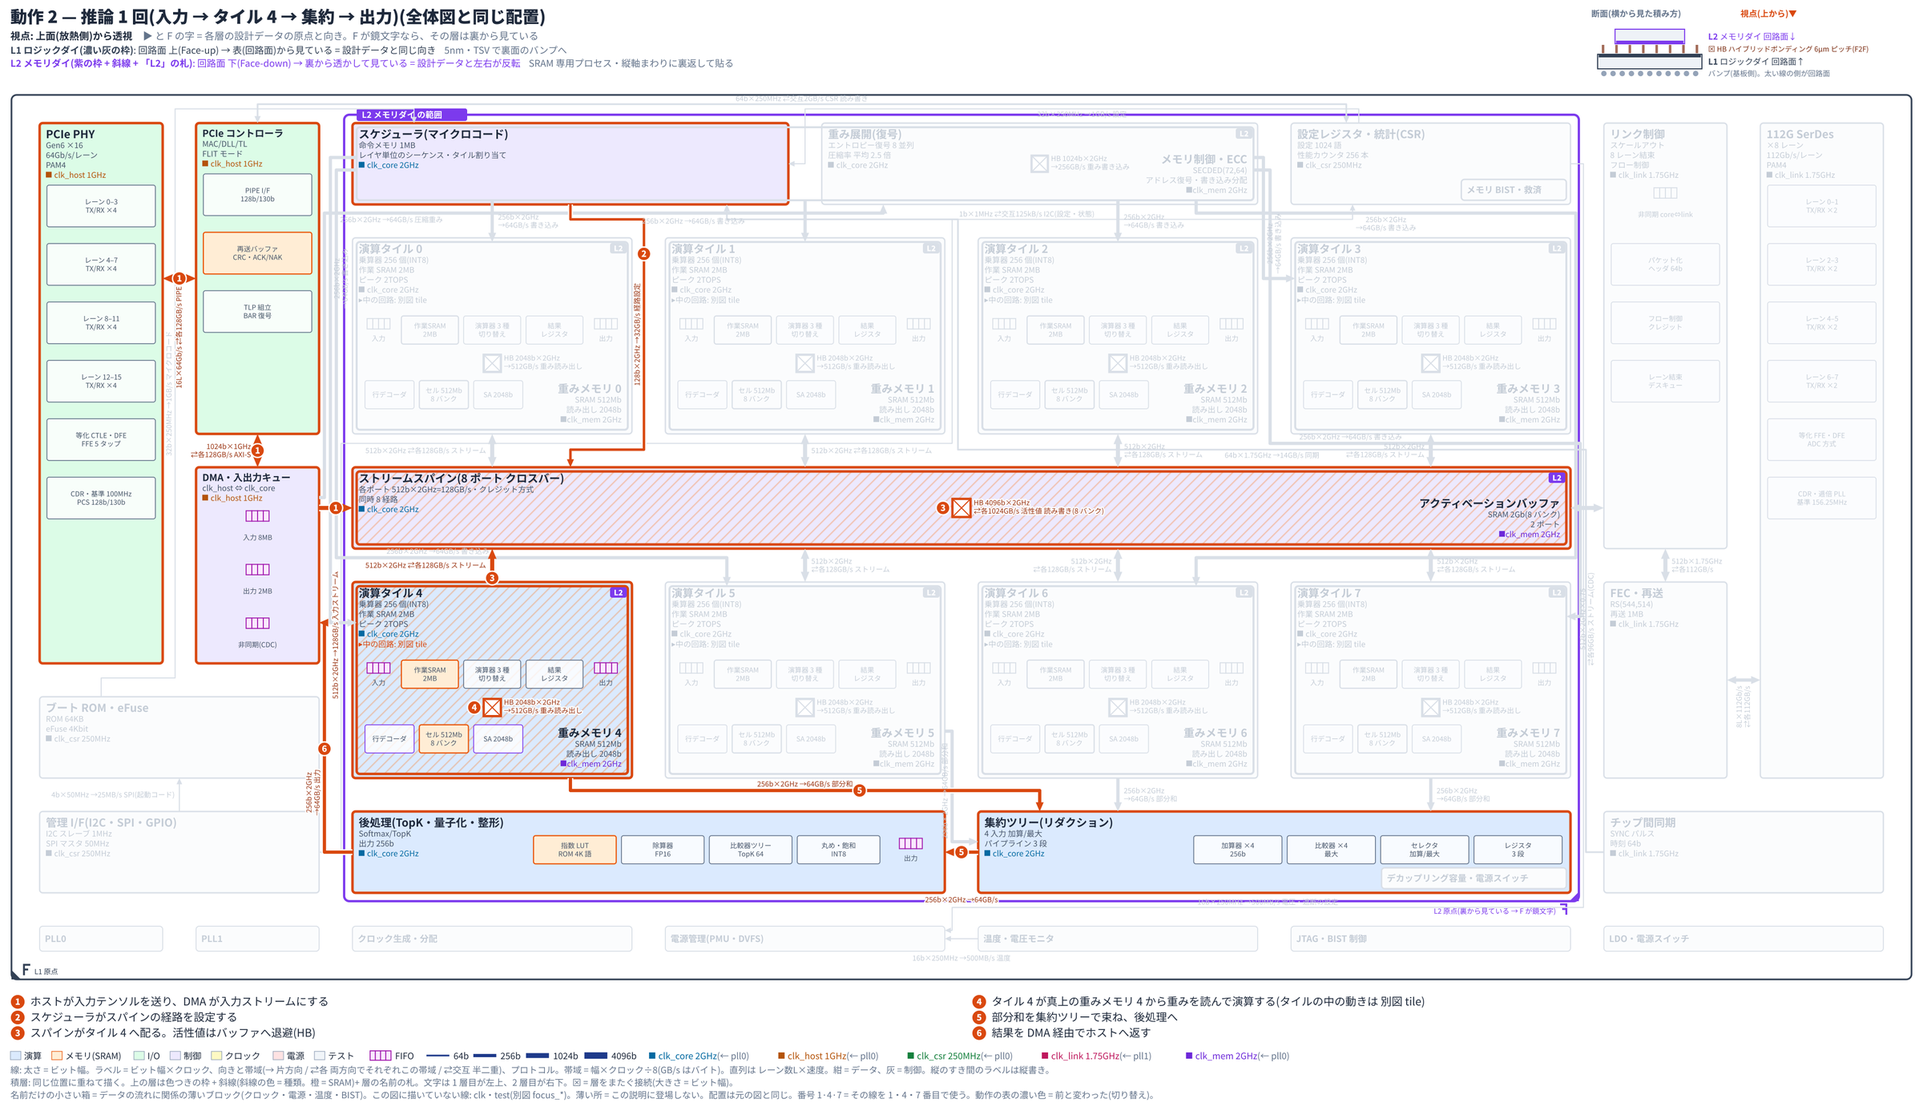
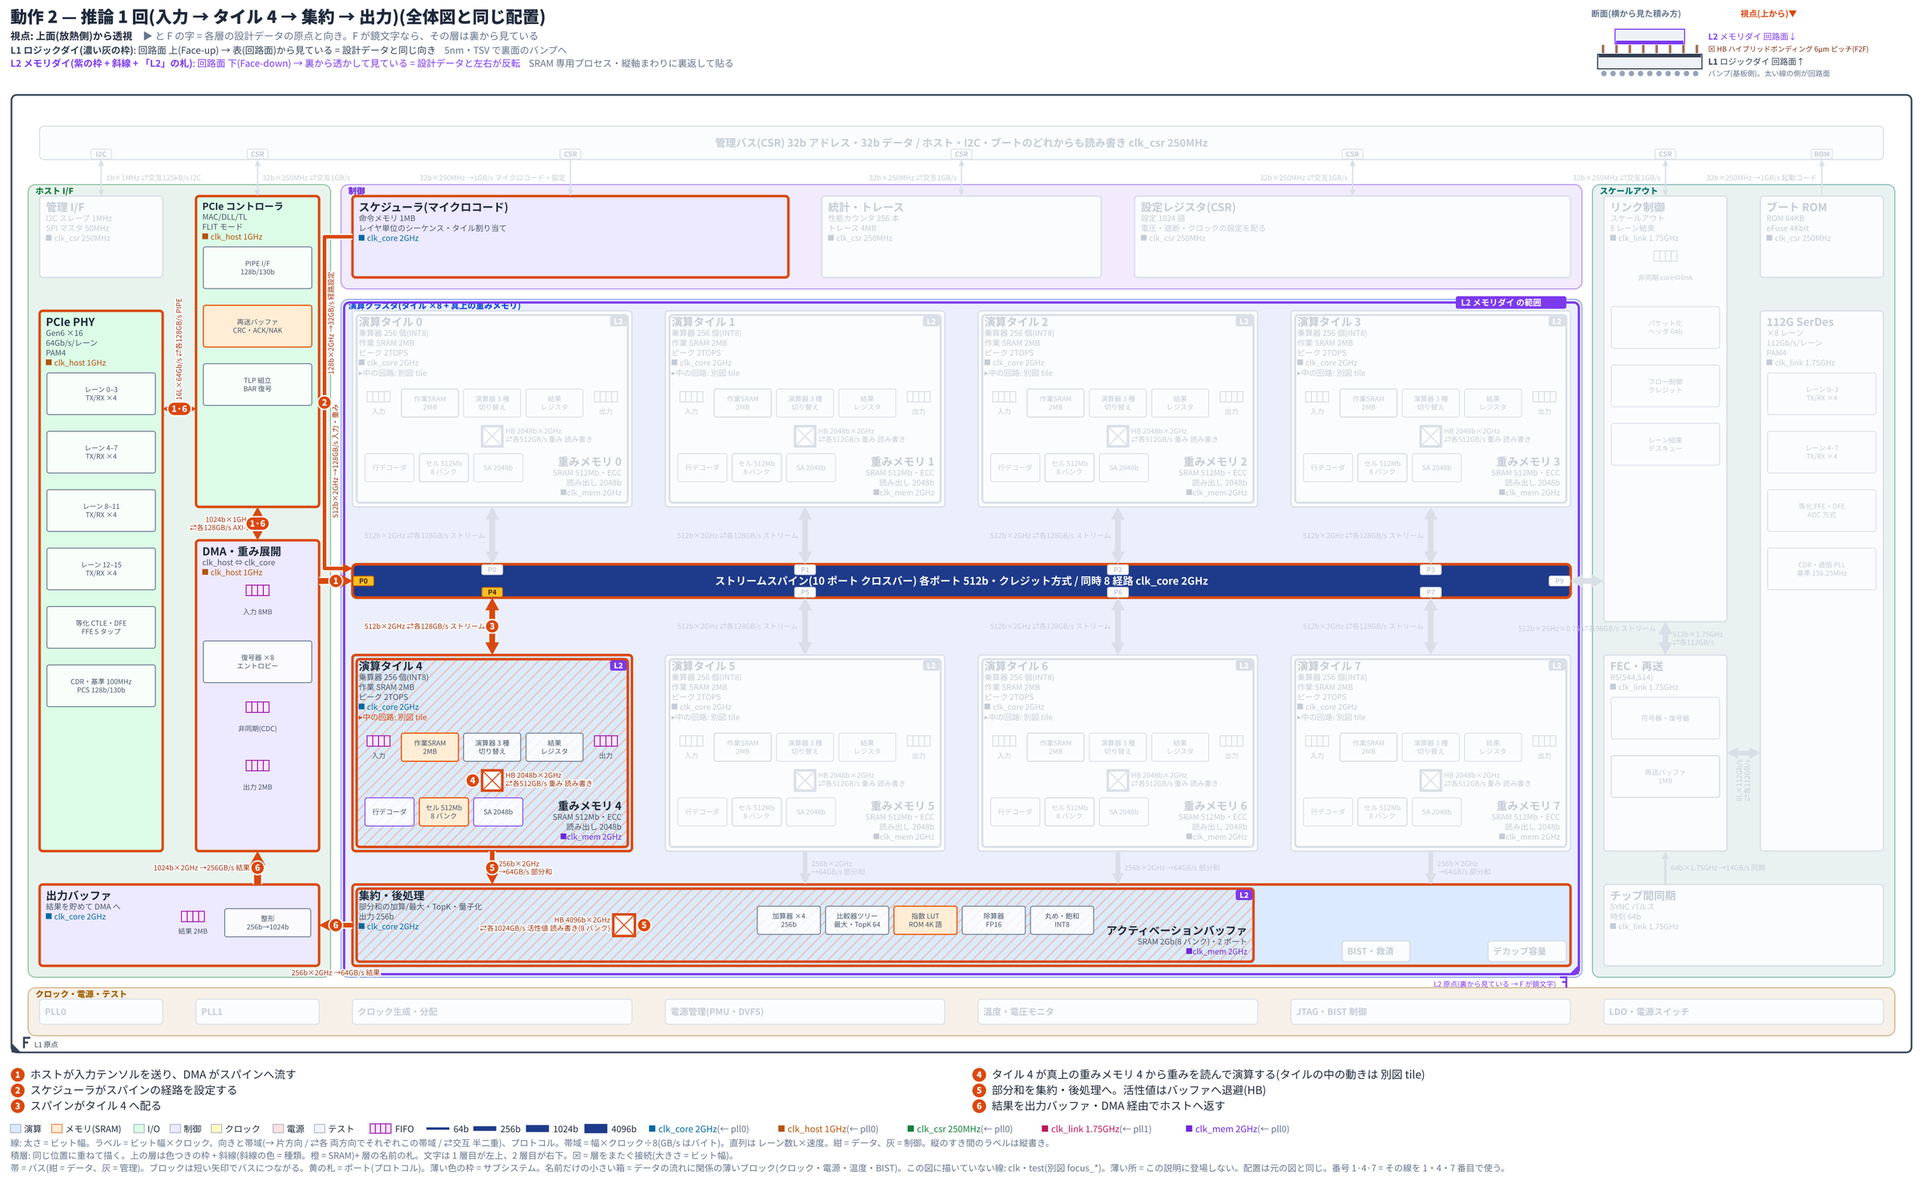
aichip: 全体図を論文のブロック図にならう形に(バス = 帯、短い太い矢印、ポートの札、サブシステムの枠。R62)。例を管理バス + スパインの 2 本の帯に組み直す
Claude-Session: https://claude.ai/code/session_01XXd7JvWVmuTTSSCjMKzXau

Changed region(s): [[0.0, 0.0, 1.0, 0.9892], [0.9062, 0.2782, 0.9375, 0.3091], [0.75, 0.9583, 0.7812, 0.9892]]

diff --git a/scripts/aichip.py b/scripts/aichip.py
@@ -31,6 +31,8 @@ from chipdiag import esc, wlen, INK, to_png, hz, load, FONT, text_box, fifo_cell
 
 GRAY = "#64748b"
 CW, CH, CHS, G, PAD = 118, 78, 24, 32, 6     # マスの幅・高さ、小さい箱だけの行の高さ、すき間、外の余白
+CHB, BUSH = 38, 32                           # バスの帯だけの行の高さ、帯の太さ
+TABC = "#fbbf24"                             # ポートの札
 BEND = 46
 KFILL = {"compute": "#dbeafe", "mem": "#ffedd5", "io": "#dcfce7", "clk": "#fef9c3", "ctrl": "#ede9fe", "pwr": "#fee2e2",
          "reg": "#ccfbf1", "test": "#f1f5f9", "misc": "#f1f5f9"}
@@ -238,7 +240,7 @@ class Arch:
         if self.schem:                                    # 回路の図: 細めの線。太さの差は控えめに
             return min(3.6, max(0.9, 0.8 + 0.35 * math.log2(max(l.get("width") or 1, 8) / 8)))
         w = l.get("width") or (l.get("lanes", 0) * 32) or 32
-        return min(6.5, max(1.0, 0.9 + 0.75 * math.log2(max(w, 32) / 32)))
+        return min(10, max(1.2, 1.2 + 1.1 * math.log2(max(w, 32) / 32)))
 
     def check(self):
         L, C, R = self.lint, self.C, self.R
@@ -263,7 +265,8 @@ class Arch:
         self.own = own
         for d in self.dies:
             dc, dr, dw, dh = d["at"]
-            emp = [(x, y) for y in range(dr, dr + dh) for x in range(dc, dc + dw) if (x, y) not in own[d["id"]]]
+            free = {(x, y) for c, r, w, h in d.get("free", []) for x in range(c, c + w) for y in range(r, r + h)}
+            emp = [(x, y) for y in range(dr, dr + dh) for x in range(dc, dc + dw) if (x, y) not in own[d["id"]] and (x, y) not in free]
             if emp and not self.schem:
                 L.append(f"[空き] 層 {d['id']}: {dw * dh} マス中 {len(emp)} マスが空いている "
                          f"({', '.join(f'[{x},{y}]' for x, y in emp[:6])}{' …' if len(emp) > 6 else ''})。詰めるか、何があるかを書く")
@@ -307,6 +310,16 @@ class Arch:
             for x in cr.get("blocks", []):
                 if x not in self.blocks:
                     L.append(f"[切り出し] {cr['id']}: ブロック {x} がない")
+        self.groups = []                                  # サブシステムの枠: (名前, 色, [ブロック])
+        for g in self.s.get("groups", []):
+            ms = [bid for bid in self.blocks for pat in g.get("blocks", []) if fnmatch.fnmatchcase(bid, pat)]
+            if not ms:
+                L.append(f"[配置] グループ {g.get('name')}: 当てはまるブロックがない")
+            else:
+                self.groups.append((g.get("name", ""), g.get("color", "#64748b"), ms))
+
+    def isbus(self, b):
+        return b.get("shape") == "bus" and not self.schem
 
     def state(self, d, fx=False, fy=False):
         """層 d が、モデルの座標(上面から見た向き)を (fx, fy) だけ反転した図でどう見えるか → (左右反転, 上下反転)"""
@@ -326,14 +339,15 @@ class Layout:
         self.A, self.fx, self.fy = A, fx, fy
         C, R = A.C, A.R
         self.cells = {b["id"]: self.flip(b["at"]) for b in A.blocks.values()}
-        rowsmall, has = [True] * R, [False] * R            # 小さい箱だけの行は低くする
+        rowsmall, has, rowbus = [True] * R, [False] * R, [False] * R   # 小さい箱だけ・バスの帯だけの行は低くする
         for b in A.blocks.values():
             c, r, w, h = self.cells[b["id"]]
             for y in range(r, r + h):
                 has[y] = True
-                if not A.small(b) or h > 1:
+                if not (A.small(b) or (A.isbus(b) and w >= h)) or h > 1:
                     rowsmall[y] = False
-        self.rh = [CHS if (rowsmall[j] and has[j]) else CH for j in range(R)]
+                rowbus[y] = rowbus[y] or A.isbus(b)
+        self.rh = [(CHB if rowbus[j] else CHS) if (rowsmall[j] and has[j]) else CH for j in range(R)]
         self.cw = [CW] * C
         if A.schem:                                       # 回路の図: 列の幅・行の高さは、そこに置く記号と文字で決める
             self.cw, self.rh = [40] * C, [40] * R
@@ -371,7 +385,13 @@ class Layout:
         self.ext[None] = [0, 0, C, R]
         self.texts, self.boxes, self.over = [], [], []
         self.route, self.via, self.sq, self.inner, self.lines, self.tabs, self.icons = {}, {}, [], [], [], [], []
-        self.pinlab, self.dots = [], []
+        self.pinlab, self.dots, self.grect = [], [], []
+        for nm, col, ms in A.groups:                      # サブシステムの枠(題つき)
+            rs = [self.rect[m] for m in ms]
+            x0, y0 = min(r[0] for r in rs) - 11, min(r[1] for r in rs) - 11
+            x1, y1 = max(r[0] + r[2] for r in rs) + 11, max(r[1] + r[3] for r in rs) + 11
+            self.grect.append((nm, col, x0, y0, x1, y1))
+            self.boxes.append(((x0 + 5, y0 + 1, x0 + 9 + tw(nm, 8, True), y0 + 10.5), ("g", nm), "□", True))
         if A.schem:
             self.place_symbols()
         else:
@@ -558,7 +578,7 @@ class Layout:
             right = anc[1] == "r"
             if A.small(b):                                # 名前だけの小さい箱
                 nm, fs = b["name"], 8.5
-                if h <= 30:                               # 低い行: マスいっぱい
+                if h <= 36:                               # 低い行: マスいっぱい
                     dx, dy, dw, dh = x + ins, y, w - 2 * ins, h
                 else:                                     # ふつうの行: 角に小さく置く
                     dw, dh = min(w - 2 * ins, tw(nm, fs, True) + 14), 20
@@ -567,6 +587,13 @@ class Layout:
                 nm = wrap(nm, max(4, int((dw - 10) / (fs * 0.6))))[0]
                 self.drect[b["id"]] = (dx, dy, dw, dh)
                 self.text(dx + 5, dy + dh / 2 + fs * .36, nm, fs, "start", role="name", owner=("b", b["id"]), bold=True, tight=b.get("tight", False))
+                continue
+            if A.isbus(b):                                # バス = 帯。名前は帯の中に白い字で 1 行
+                hz_ = w >= h
+                self.drect[b["id"]] = (x, y + h / 2 - BUSH / 2, w, BUSH) if hz_ else (x + w / 2 - BUSH / 2, y, BUSH, h)
+                ck = b.get("clock")
+                t = "   ".join([b["name"]] + [" / ".join(b.get("info", []))] * bool(b.get("info")) + ([f"{ck} {A.clk[ck].get('freq', '')}"] if ck in A.clk else []))
+                self.text(x + w / 2 + (0 if hz_ else 3.6), y + h / 2 + (3.6 if hz_ else 0), t, 10, "middle", rot=not hz_, role="bus", owner=("b", b["id"]), bold=True)
                 continue
             self.drect[b["id"]] = (x + ins, y + ins, w - 2 * ins, h - 2 * ins)
             shape = b.get("shape")
@@ -1056,7 +1083,7 @@ class Layout:
         """中が空いている 1 層目のブロック(3 マス以上で、文字と中身の箱が面積の 7% 未満)"""
         out = []
         for b in self.A.blocks.values():
-            if self.A.schem or self.A.die[b["die"]]["idx"] != 0 or b["at"][2] * b["at"][3] < 3 or self.A.small(b) or b.get("shape") == "mux":
+            if self.A.schem or self.A.die[b["die"]]["idx"] != 0 or b["at"][2] * b["at"][3] < 3 or self.A.small(b) or b.get("shape") in ("mux", "bus"):
                 continue
             x, y, w, h = self.rect[b["id"]]
             used = sum((bx[2] - bx[0]) * (bx[3] - bx[1]) for bx, ow, t, _ in self.boxes
@@ -1137,6 +1164,10 @@ def body_svg(A, L, mode):
     diml = lambda lid: actl is not None and lid not in actl
     hidden_die = lambda d: die_only is not None and d != die_only
     b_ = []
+    for nm, col, x0, y0, x1, y1 in L.grect:               # サブシステムの枠: 薄い色の地 + 題
+        b_.append(f'<rect x="{f(x0)}" y="{f(y0)}" width="{f(x1 - x0)}" height="{f(y1 - y0)}" rx="7" fill="{col}" fill-opacity=".09" '
+                  f'stroke="{col}" stroke-opacity=".45" stroke-width="1"/>'
+                  f'<text x="{f(x0 + 7)}" y="{f(y0 + 9)}" font-size="8" font-weight="800" fill="{col}">{esc(nm)}</text>')
     # 層の範囲・原点の印
     for d in A.dies:
         c, r, w, h = L.ext[d["id"]]
@@ -1156,8 +1187,9 @@ def body_svg(A, L, mode):
             continue
         if d["idx"]:                                      # 上の層の範囲: 外形の線の上に札
             t = f'{d["id"]} {d["name"]} の範囲'
-            b_.append(f'<rect x="{f(x - e + 12)}" y="{f(y - e - 6)}" width="{f(tw(t, 8, True) + 10)}" height="12" rx="2" fill="{col}"/>'
-                      f'<text x="{f(x - e + 17)}" y="{f(y - e + 3)}" font-size="8" font-weight="700" fill="#fff">{esc(t)}</text>')
+            tx_ = x + pw + e - 22 - tw(t, 8, True)        # 外形の右上(左上はサブシステムの題)
+            b_.append(f'<rect x="{f(tx_)}" y="{f(y - e - 6)}" width="{f(tw(t, 8, True) + 10)}" height="12" rx="2" fill="{col}"/>'
+                      f'<text x="{f(tx_ + 5)}" y="{f(y - e + 3)}" font-size="8" font-weight="700" fill="#fff">{esc(t)}</text>')
         mx, my = A.state(d, L.fx, L.fy)
         ox, oy = (x + pw + e if mx else x - e), (y - e if my else y + ph + e)
         sx, sy = (-1 if mx else 1), (-1 if my else 1)
@@ -1182,6 +1214,11 @@ def body_svg(A, L, mode):
             continue
         small = A.small(b)
         shape = None if small else b.get("shape")
+        if shape == "bus":                                # バスの帯(色 = 線の種類の色)
+            bc = LCOL.get(b.get("bus", "data"), LCOL["data"])
+            b_.append(f'<rect x="{f(x)}" y="{f(y)}" width="{f(w)}" height="{f(h)}" rx="4" fill="{DIMF if dm else bc}" '
+                      f'stroke="{DIMS if dm else ACC if act else bc}" stroke-width="{2.6 if act else 1}"/>')
+            continue
         fill = DIMF if dm else FIFO_FILL if shape == "fifo" else KFILL.get(b["kind"], KFILL["misc"])
         if k and not die_only and not small and not A.schem:      # 重ねて描く時: 下の層の色を消さないよう、斜線だけ
             fill = "none" if dm else f'url(#ht_{b["kind"] if b["kind"] in KHATCH else "misc"})'
@@ -1273,9 +1310,19 @@ def body_svg(A, L, mode):
             dx, dy = ex - qx, ey - qy
             n = max(math.hypot(dx, dy), 1e-6)
             ux, uy = dx / n, dy / n
-            hw = max(2.2, sw * .5 + 1.8) if A.schem else max(2.6, sw * .5 + 2.2)
+            hw = max(2.2, sw * .5 + 1.8) if A.schem else max(2.8, sw * .85 + 1.8)
             o.append(f'<path d="M{f(ex)},{f(ey)} L{f(ex - ux * a - uy * hw)},{f(ey - uy * a + ux * hw)} '
                      f'L{f(ex - ux * a + uy * hw)},{f(ey - uy * a - ux * hw)} z" fill="{col}"/>')
+        if l.get("tab"):                                  # ポートの札(プロトコル・ポート名)。バスの帯の縁の内側に置く(帯の中央は名前の行)
+            ends = [(pts[0], pts[1], l["from"]), (pts[-1], pts[-2], l["to"])]
+            for (ex, ey), (qx, qy), _ in [e for e in ends if A.isbus(A.blocks[e[2]])]:
+                n = max(math.hypot(ex - qx, ey - qy), 1e-6)
+                ux, uy = (ex - qx) / n, (ey - qy) / n     # 帯の中へ向かう向き
+                tw_ = max(20, tw(l["tab"], 6.6, True) + 7)
+                cx_, cy_ = ex + ux * (tw_ / 2 + .5 if abs(ux) > .5 else 0), ey + uy * (5.2 if abs(uy) > .5 else 0)
+                o.append(f'<rect x="{f(cx_ - tw_ / 2)}" y="{f(cy_ - 4.7)}" width="{f(tw_)}" height="9.4" rx="1.5" fill="{DIMF if dm else TABC}" '
+                         f'stroke="{DIMS if dm else "#b45309"}" stroke-width="0.8"/><text x="{f(cx_)}" y="{f(cy_ + 2.4)}" font-size="6.6" '
+                         f'font-weight="700" fill="{DIMT if dm else "#422006"}" text-anchor="middle">{esc(l["tab"])}</text>')
         if l.get("mux"):                                  # セレクタ(行き先の手前に台形)
             (ex, ey), (qx, qy) = pts[-1], pts[-2]
             n = max(math.hypot(ex - qx, ey - qy), 1e-6)
@@ -1329,8 +1376,8 @@ def body_svg(A, L, mode):
             if hidden_die(A.blocks[oid]["die"]):
                 continue
             dm = dimb(oid)
-            col = DIMT if dm else INK if t["role"] == "name" else A.clk[t["role"][4:]]["col"] if t["role"].startswith("clk:") else \
-                ACC if t["role"] == "more" else "#475569"
+            col = DIMT if dm else "#fff" if t["role"] == "bus" else INK if t["role"] == "name" else \
+                A.clk[t["role"][4:]]["col"] if t["role"].startswith("clk:") else ACC if t["role"] == "more" else "#475569"
         else:
             l = A.links[oid]
             if not shown(l):
@@ -1547,12 +1594,15 @@ def draw(A, L, mode, title, out, png=False):
         notes.append("積層: 同じ位置に重ねて描く。上の層は色つきの枠 + 斜線(斜線の色 = 種類。橙 = SRAM)+ 層の名前の札。文字は 1 層目が左上、2 層目が右下。"
                      "⊠ = 層をまたぐ接続(大きさ = ビット幅)。")
     t3 = ""
+    if any(A.isbus(b) for b in A.blocks.values()):
+        t3 += "帯 = バス(紺 = データ、灰 = 管理)。ブロックは短い矢印でバスにつながる。黄の札 = ポート(プロトコル)。薄い色の枠 = サブシステム。"
     if any(A.small(b) for b in A.blocks.values()):
         t3 += "名前だけの小さい箱 = データの流れに関係の薄いブロック(クロック・電源・温度・BIST)。"
     if hid:
         t3 += f"この図に描いていない線: {'・'.join(hid)}(別図 focus_*)。"
     if kind == "scene":
-        t3 += "薄い所 = この説明に登場しない。配置は元の図と同じ。番号 1·4·7 = その線を 1・4・7 番目で使う。動作の表の濃い色 = 前と変わった(切り替え)。"
+        t3 += "薄い所 = この説明に登場しない。配置は元の図と同じ。" + ("番号 1·4·7 = その線を 1・4・7 番目で使う。" if steps else "") + \
+              ("動作の表の濃い色 = 前と変わった(切り替え)。" if step_states(A, steps) else "")
     if t3:
         notes.append(t3)
     for n, t in enumerate(notes):

diff --git a/diagrams/ai-chip-architecture/GUIDE.md b/diagrams/ai-chip-architecture/GUIDE.md
@@ -31,7 +31,8 @@ python3 scripts/aichip.py lint   examples/aichip/infer_accel.yaml
 1. **聞く**(未決なら仮置きして進め、決定事項に残す。質問は `templates/question_bank.yaml` の `aichip_*`):
    積層の枚数と順・各層の回路面の向き(Face-up / Face-down)・裏返す軸、図の視点(上面 / 下面)、
    ブロックと位置、接続のビット幅とクロック・片方向か両方向か、クロックの源と周波数、説明したい動作、中の回路まで描くブロック。
-2. **マス目を決める**: チップの縦横比に合わせて列 × 行(例 12 × 8)。1 マス = 一番小さいブロック。
+2. **バス(帯)を先に決め、マス目を決める**: データが集まる所(スパイン・クロスバー・NoC)と、設定が集まる所(管理バス)を帯にする。
+   帯の上下・左右に、そこへつながるブロックを接して置く(R62)。列 × 行は例 12 × 9。1 マス = 一番小さいブロック。
    クロック・電源・温度・BIST の小さい箱は 1 行にまとめる(その行は自動で低くなる)。
 3. **model.yaml を書く**(下の「書き方」)。座標はすべて「上面から見た向き」。
    線の種類を分ける: データ = `data`、設定・制御(I2C・SPI・CSR を含む)= `ctrl`、BIST・デバッグ = `test`、クロック = `clk`。
@@ -43,7 +44,7 @@ python3 scripts/aichip.py lint   examples/aichip/infer_accel.yaml
    それをそのまま 記号(shape)・端子(pins)・線(ブロック.端子)にする。データは左 → 右、制御は上の行、戻りの線は下を回る。
 8. **動作が同じ線を何度も通る時**(読む → 演算 → 書き戻す → 読み直す → 演算器を切り替える)は、
    ステップごとに `state:`(セレクタの向き・メモリの読み書き・レジスタの動き)を書き、`frames: true` でコマ割りも出す(R61)。
-9. 図の見た目を変えたい時は SVG を手で直さず、`scripts/aichip.py` とこの GUIDE、`rules/style_rules.yaml`(R55〜R61)を直す。
+9. 図の見た目を変えたい時は SVG を手で直さず、`scripts/aichip.py` とこの GUIDE、`rules/style_rules.yaml`(R55〜R62)を直す。
 
 | lint | 意味 | 直し方 |
 |---|---|---|
@@ -147,6 +148,19 @@ python3 scripts/aichip.py lint   examples/aichip/infer_accel.yaml
   配置はどのコマも元の図と同じ。コマの題の下に、そのステップの `state` を 〔 〕 で書く。
 - ステップの文は「何を選び、どこから読み、どこへ書くか」を書く。くり返しは「2〜3 を窓の数だけくり返す」のように文で書く。
 
+### R62 全体図は、論文・ホワイトペーパーのブロック図にならう
+参考にした図(SoC・GPU・チップレット・CPU パイプラインのブロック図 16 枚)に共通する描き方を、全体図の決まりにする。
+- **バス・インターコネクトは帯**(`shape: bus`)。細い線を何本も引き回さない。帯の色 = 線の種類の色(紺 = データ、灰 = 管理)。
+  名前・諸元・クロックは帯の中央に白い字で 1 行。帯だけの行は低くなる。
+- **ブロックは帯に接して置き、短いまっすぐな太い矢印でつなぐ。** 曲がる線は例外(例では経路設定の 1 本だけ)。
+  つなぎたいブロックが帯に接していなければ、線を引き回す前に配置を変える。
+- **ポートの札**(`tab:`): 帯につながる端に、プロトコル名・ポート名(CSR・I2C・P0…)を黄色い小さい札で書く。札は帯の縁の内側に置く。
+- **矢印の横にビット幅と帯域**(R56)。太さ = ビット幅(1.2px 〜 10px)。矢じりは太さの約 2 倍の幅。
+- **サブシステムは題つきの枠で囲む**(`groups:`)。薄い色の地 + 左上に題(ホスト I/F・制御・演算クラスタ・スケールアウト…)。
+- **1 つのバスにつながるものが多い時は、バスを分ける**(データ用のスパインと、設定用の管理バス)。I2C・ブート・ホストの CSR は管理バスに集める。
+- 色は種類で分け、凡例を下に置く(R56)。繰り返しのブロックは並べて全部描く。
+- 参考図と違えている点: 積層を 1 枚に重ねること(R58)、字が小さく情報が多いこと(R56)、動作説明で同じ図を使い回すこと(R55)。
+
 ---
 
 ## model.yaml の書き方
@@ -202,6 +216,9 @@ details:                  # ブロックの中の回路(別図)
           - {text: "演算器選択 = 0: 積和。A×B を累算する", links: [a1, b1, m1, s_op, o1], state: {osel: "0: 積和", acc: 累算}}
 ```
 - `kind`: compute / mem / io / ctrl / clk / pwr / test / reg(塗りの色。小さい箱にするかの既定)。
+- バス: `shape: bus`、`bus: data | ctrl`(帯の色)。つなぐ線に `tab: CSR`(ポートの札)。
+- サブシステムの枠: `groups: [{name: ホスト I/F, color: "#15803d", blocks: [host_phy, "tile*"]}]`。
+- 層の中でわざと空けるマス: `stack` の `free: [[2, 4, 8, 1]]`(配線・電源の通り道。`[空き]` にしない)。
 - 線: `width` + `clock`(または `rate`)、直列は `lanes` + `rate`。`eff`(稼働率)、`proto`、`label`、
   `kind: data | ctrl | test | clk | pwr`、`dir: both | half`、`mux:`(セレクタの名前)、`from_side` / `to_side: n|s|e|w`(出入りする辺)。
 - 層をまたぐ線: `via: HB`(真上・真下。⊠ を重なりの中に置く)、`far: true`(離れている。⊠ を両方に置き、相手の名前を書く)、`far: line`(線で結び、途中に ⊠)。
